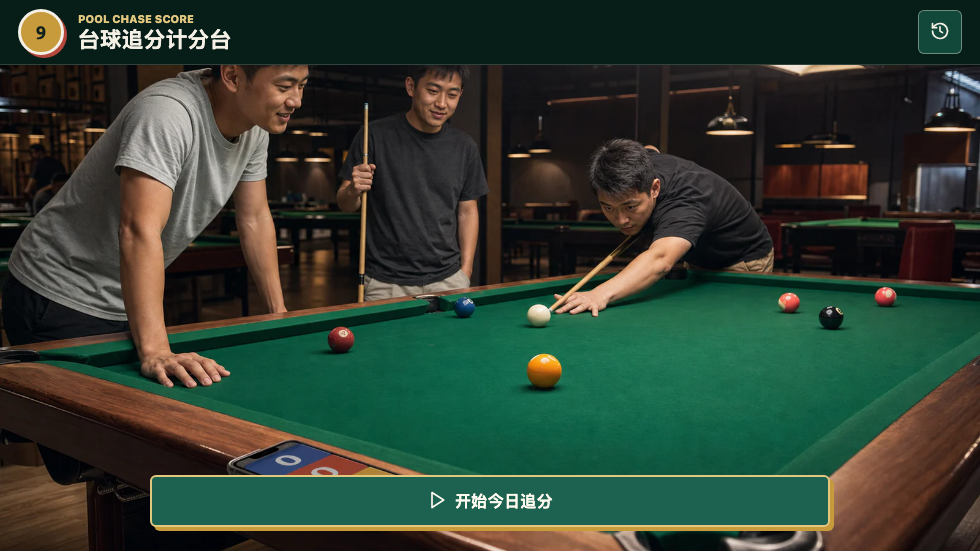
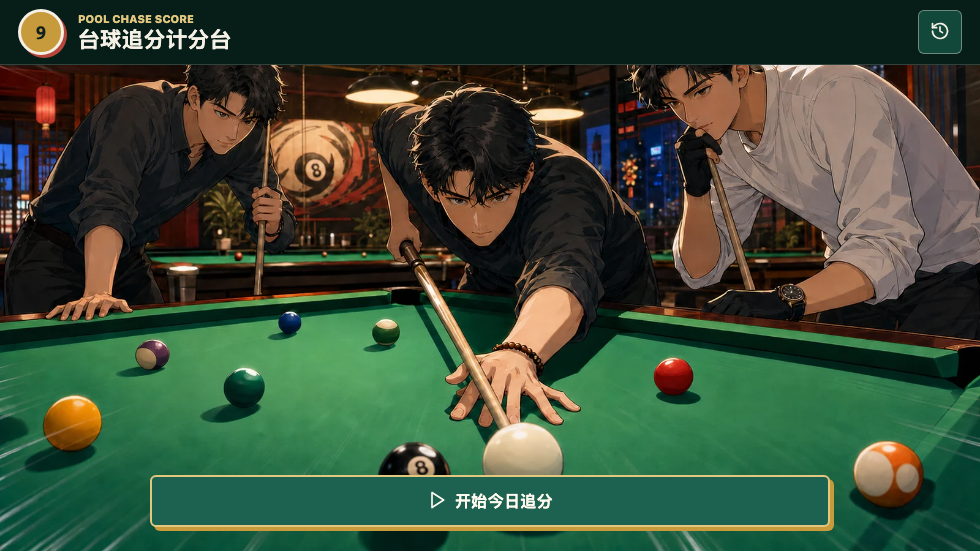
docs: refresh pool chase preview

diff --git a/pool-chase-score/README.md b/pool-chase-score/README.md
@@ -6,7 +6,7 @@
 
 [🎱 在线体验](https://jiaxuan-tao.github.io/vibe-coding-lab/pool-chase-score/) · [🧭 使用方法](#-使用方法) · [🔒 数据与隐私](#-数据与隐私)
 
-![台球追分计分台多人现场追分首页](docs/images/pool-chase-score-preview.png)
+![台球追分计分台动漫竞技首页](docs/images/pool-chase-score-preview.png)
 
 ---
 
